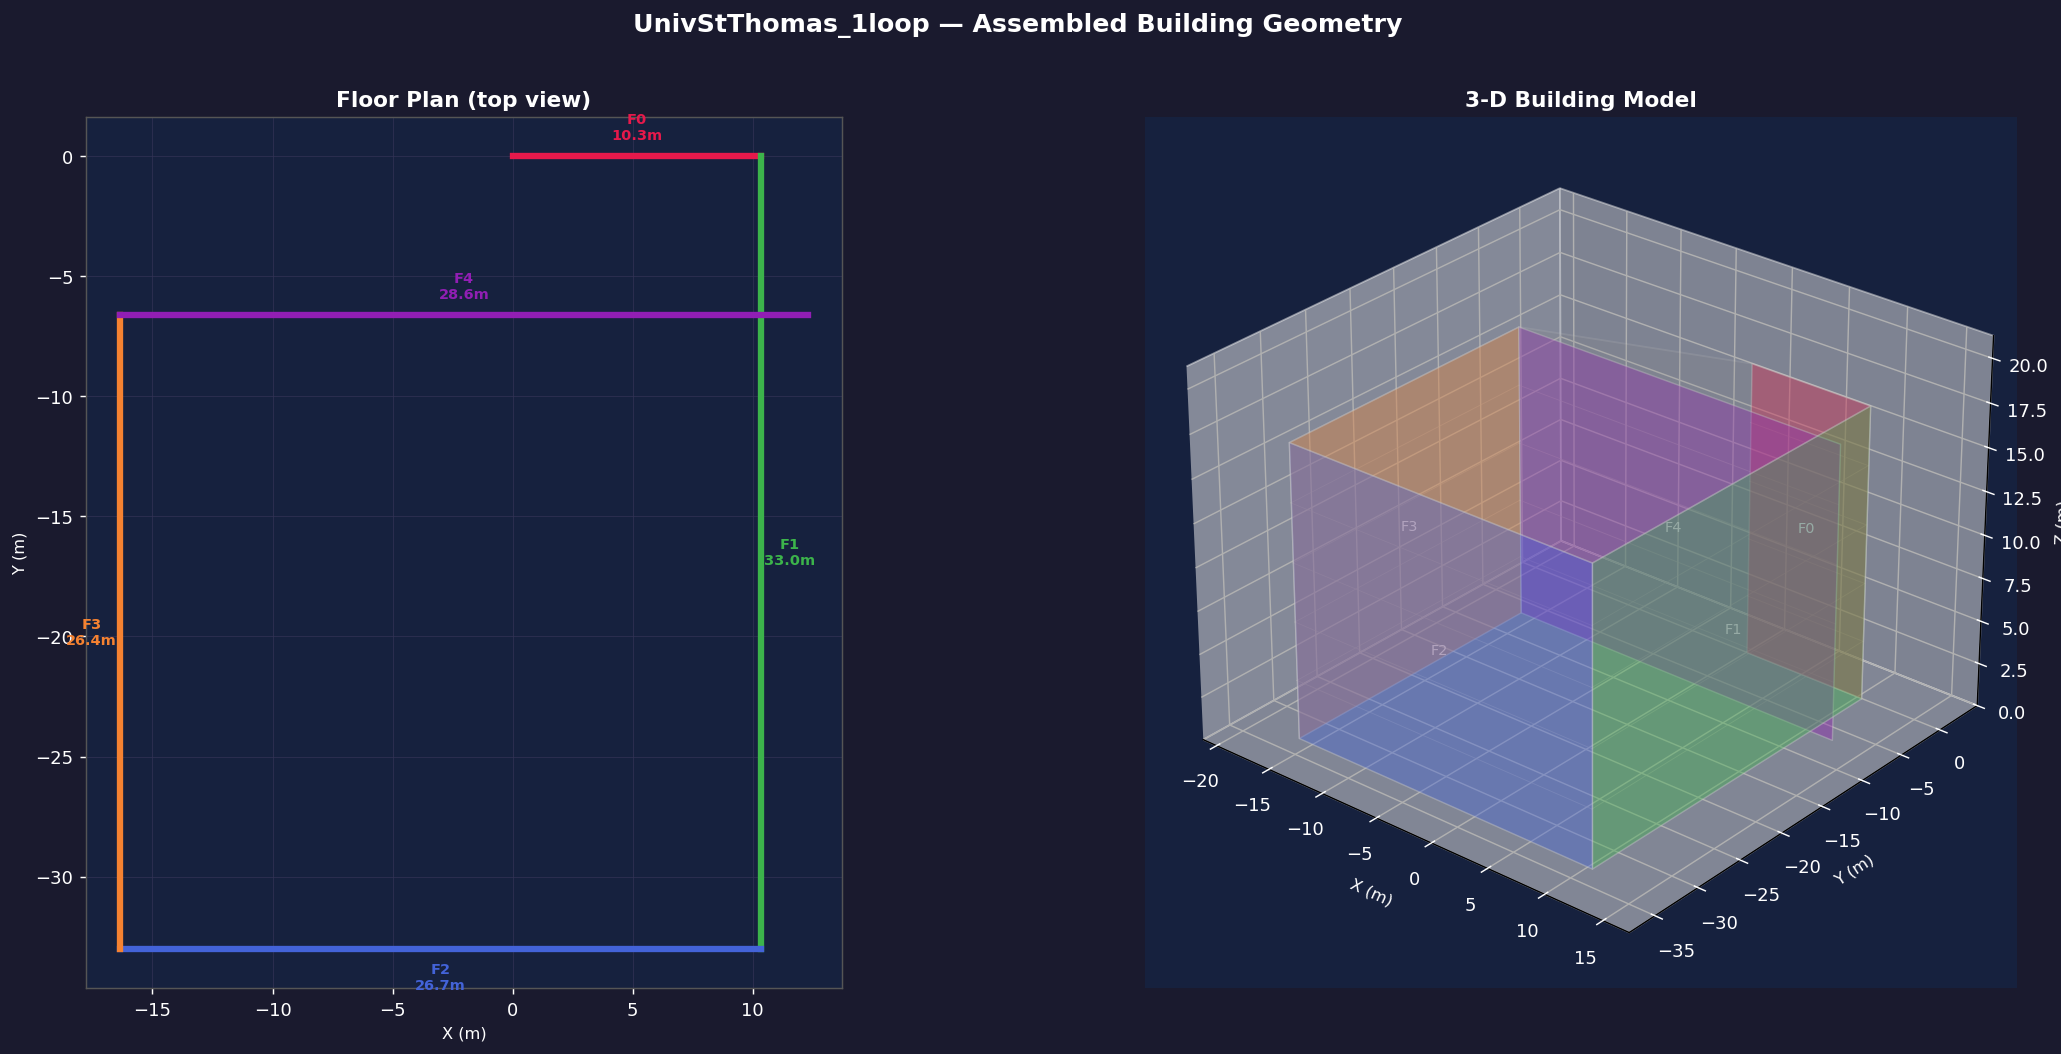
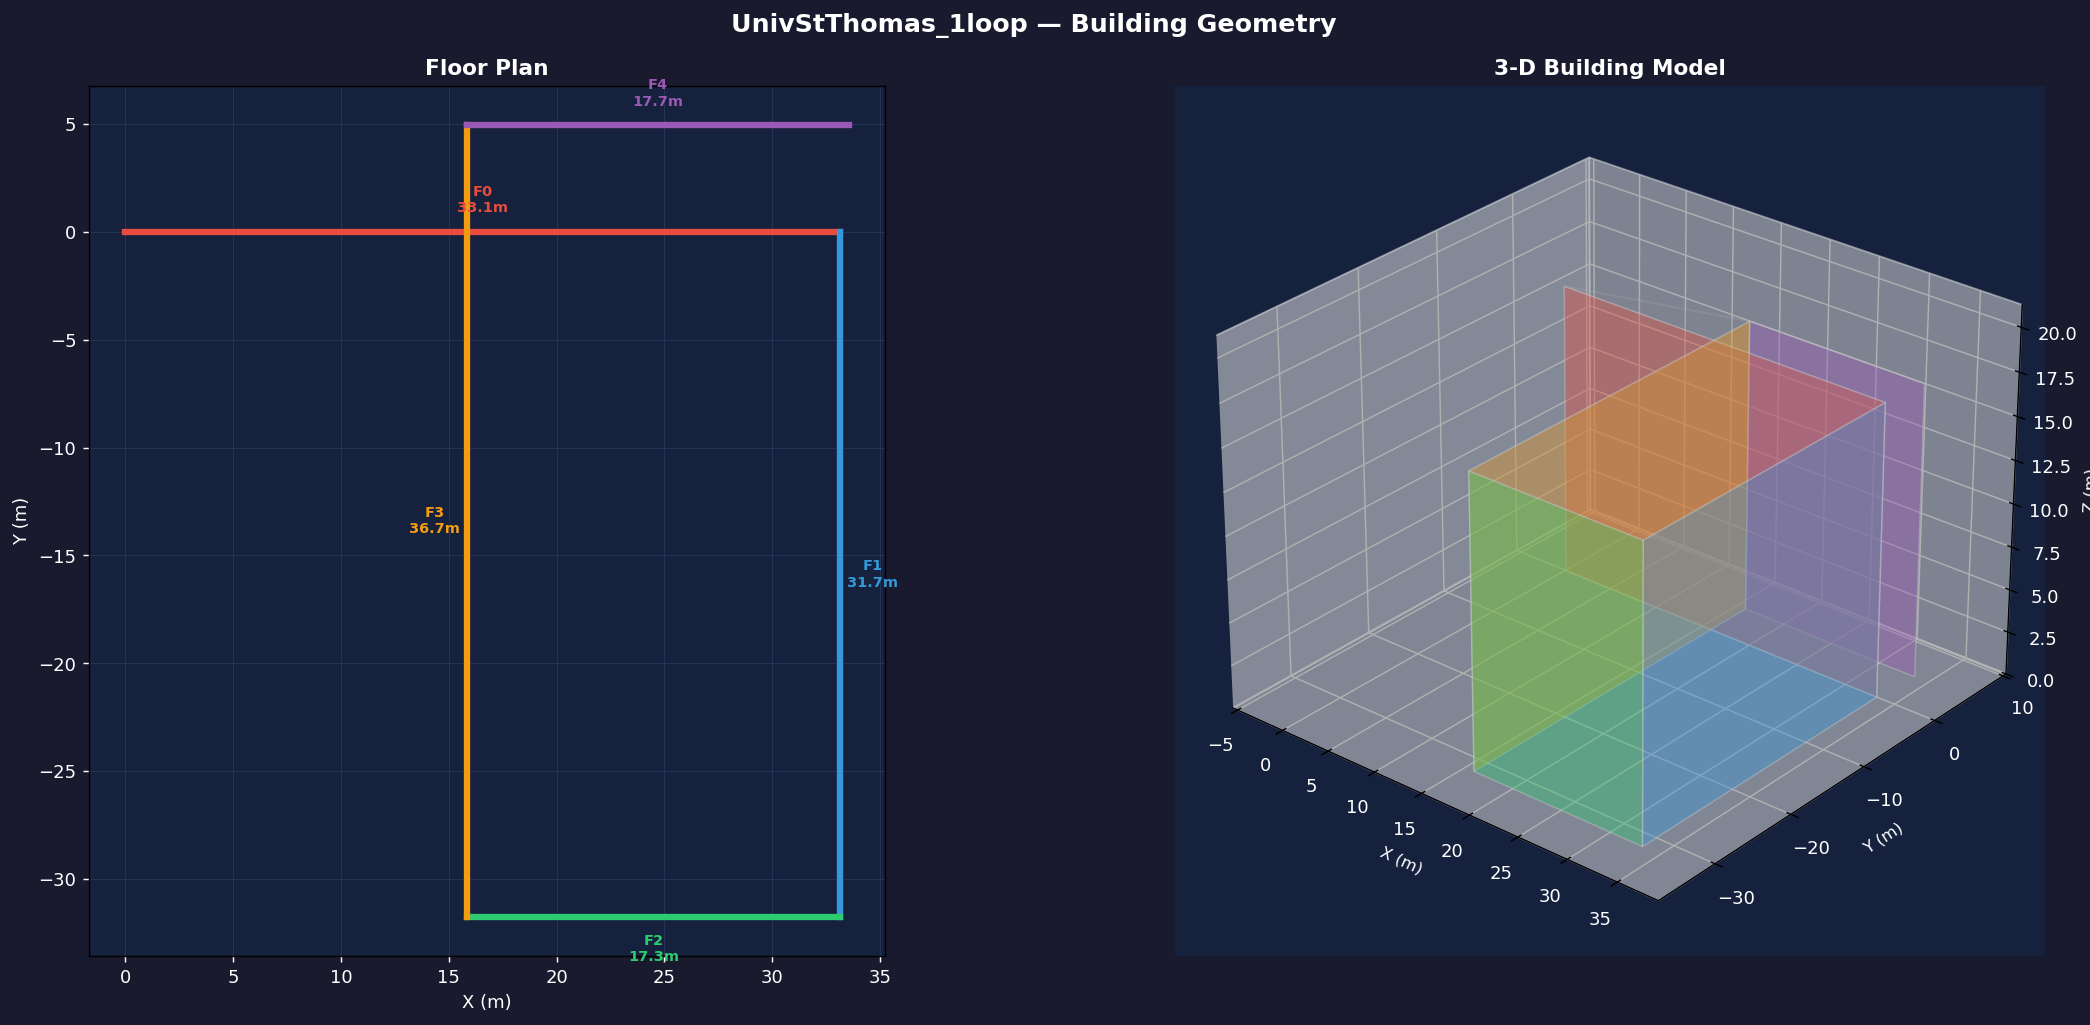
Udpated launcher

diff --git a/tools/launcher.py b/tools/launcher.py
@@ -10,7 +10,7 @@ import sys
 import tkinter as tk
 import webbrowser
 from pathlib import Path
-from tkinter import filedialog, font as tkfont
+from tkinter import filedialog, font as tkfont, messagebox
 
 # ---------------------------------------------------------------------------
 # Paths
@@ -317,47 +317,65 @@ class Launcher:
             self._building_name.set(p.name)
         self._status_var.set(f'Photos folder: {p}')
 
-    def _validate(self):
-        photos = self._photos_dir.get().strip()
-        name   = self._building_name.get().strip()
-        if not photos:
-            return False, 'Please select a photos folder (Step 1).'
-        if not Path(photos).exists():
-            return False, f'Photos folder not found: {photos}'
+    def _require_name(self):
+        """Return building name or show an error dialog and return None."""
+        name = self._building_name.get().strip()
         if not name:
-            return False, 'Please enter a building name (Step 1).'
-        return True, ''
+            messagebox.showerror(
+                'Building name required',
+                'Please enter a building name in Step 1 before continuing.')
+            return None
+        return name
 
     def _launch_annotate(self):
-        ok, msg = self._validate()
-        if not ok:
-            self._status_var.set(f'Cannot launch: {msg}')
+        name = self._require_name()
+        if name is None:
             return
+
         photos = self._photos_dir.get().strip()
-        name   = self._building_name.get().strip()
-        faces  = self._n_faces.get()
+        if not photos:
+            messagebox.showerror(
+                'Photos folder required',
+                'Please select a photos folder in Step 1 before annotating.')
+            return
+        if not Path(photos).exists():
+            messagebox.showerror(
+                'Folder not found',
+                f'Photos folder does not exist:\n{photos}')
+            return
+
+        faces = self._n_faces.get()
         cmd = [PYTHON_EXE, str(ANNOTATE_SCRIPT),
                name, '--photos-dir', photos, '--faces', str(faces)]
         self._status_var.set(f'Opened annotation tool for "{name}" — see the new window.')
-        subprocess.Popen(cmd, cwd=str(REPO_ROOT))
+        try:
+            subprocess.Popen(cmd, cwd=str(REPO_ROOT))
+        except Exception as exc:
+            messagebox.showerror('Launch failed',
+                                 f'Could not start annotation tool:\n{exc}')
 
     def _launch_assemble(self):
-        ok, msg = self._validate()
-        if not ok:
-            self._status_var.set(f'Cannot launch: {msg}')
+        name = self._require_name()
+        if name is None:
             return
 
         ann = self._ann_file()
         if ann is None or not ann.exists():
-            self._status_var.set(
-                f'No annotation file found for "{self._building_name.get().strip()}" — '
-                'complete Step 2 first.')
+            messagebox.showerror(
+                'No annotations found',
+                f'No annotation file found for "{name}".\n\n'
+                f'Complete Step 2 (Annotate) first, or check that the '
+                f'building name matches the one used during annotation.\n\n'
+                f'Expected file:\n{ANN_ROOT / name / (name + ".json")}')
             return
 
-        name = self._building_name.get().strip()
         cmd = [PYTHON_EXE, str(ASSEMBLE_SCRIPT), name]
         self._status_var.set(f'Opened assembly tool for "{name}" — see the new window.')
-        subprocess.Popen(cmd, cwd=str(REPO_ROOT))
+        try:
+            subprocess.Popen(cmd, cwd=str(REPO_ROOT))
+        except Exception as exc:
+            messagebox.showerror('Launch failed',
+                                 f'Could not start assembly tool:\n{exc}')
 
     def _open_output_folder(self):
         name = self._building_name.get().strip()